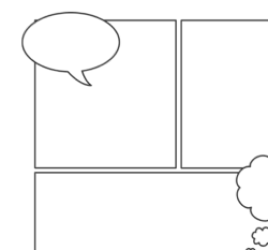
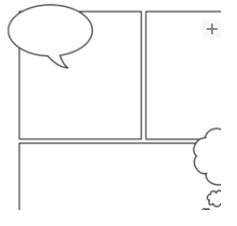
resized templates using cloudnary

Changed region(s): [[0.0295, 0.0, 1.0, 1.0]]

diff --git a/assets/js/main-cp.js b/assets/js/main-cp.js
@@ -11,13 +11,13 @@ let isDrawing = false;
 //background comic template image code ****************************
 var imageUrl1;
 var background = new Image();
-background.src = "https://res.cloudinary.com/dejaksfsk/image/upload/c_scale,h_650/v1583798453/blank-template_udb2gw.png";
+background.src = "https://res.cloudinary.com/dejaksfsk/image/upload/c_scale,h_650/v1583798452/blank-template2_dlso0r.png";
 
 
 //super imposing another image - changing opacity to make transluscent to make
 var imageUrl2;
 var background2 = new Image();
-background2.src = "https://res.cloudinary.com/dejaksfsk/image/upload/c_scale,h_650/v1583798453/blank-template_udb2gw.png";
+background2.src = "https://res.cloudinary.com/dejaksfsk/image/upload/c_scale,h_650/v1583798452/blank-template2_dlso0r.png";
 
 background.onload = function () {
   // ctx.globalAlpha = 0.4; //to change opacity to 40%

diff --git a/index.html b/index.html
@@ -33,9 +33,14 @@
             </a>
         </div>
         <div class="col-md-3">
-            <img src="canvas-plain-icon.png">
-            template without bubbles
+            <a href="index-cp.html">
+
+                <img src="canvas-plain-icon.png">
+                template plain
+            </a>
         </div>
+
+
         <div class="col-md-3">
             <img src="canvas-bubble-icon-blue.png">
             template with colors

diff --git a/index-cp.html b/index-cp.html
@@ -28,7 +28,7 @@
   <button id="newTemplate">New Template</button>
 
   <script src="https://cdnjs.cloudflare.com/ajax/libs/jquery/3.2.1/jquery.min.js"></script>
-  <script src="assets/js/main.js"></script>
+  <script src="assets/js/main-cp.js"></script>
 
 
 </body>
